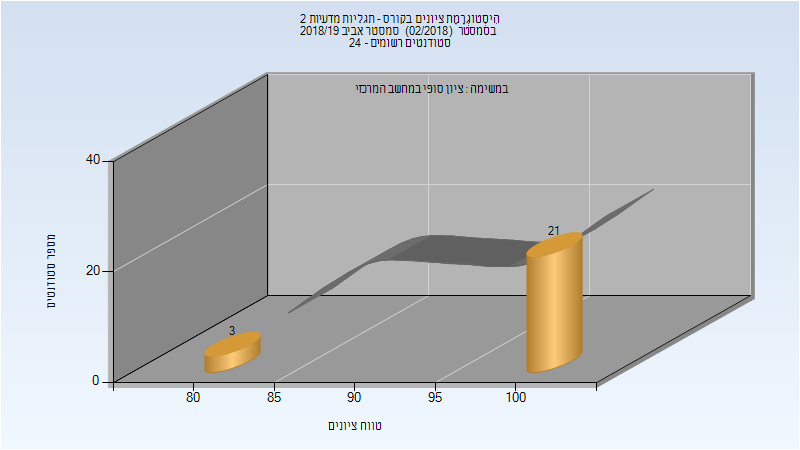
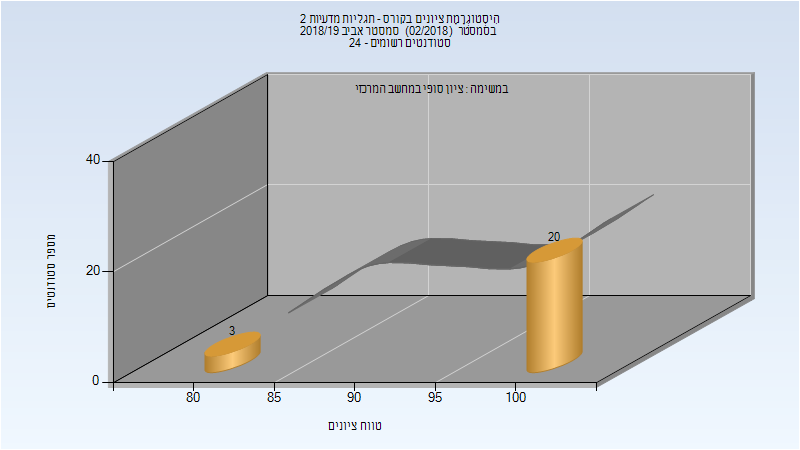
Deploy michael-maltsev/technion-histograms to github.com/michael-maltsev/technion-histograms.git:gh-pages

diff --git a/114011/index.html b/114011/index.html
@@ -186,12 +186,12 @@
 </thead>
 <tbody>
 <tr>
-<td>24</td>
-<td>24/0</td>
+<td>23</td>
+<td>23/0</td>
 <td>100</td>
 <td>80</td>
 <td>100</td>
-<td>97.5</td>
+<td>97.391</td>
 <td>100</td>
 </tr>
 </tbody>

diff --git a/114011/README.md b/114011/README.md
@@ -56,7 +56,7 @@
 
 | סטודנטים | עברו/נכשלו | אחוז עוברים | ציון מינימלי | ציון מקסימלי | ממוצע | חציון |
 | ---- | ---- | ---- | ---- | ---- | ---- | ---- |
-| 24 | 24/0 | 100 | 80 | 100 | 97.5 | 100 |
+| 23 | 23/0 | 100 | 80 | 100 | 97.391 | 100 |
 
 ## אביב 2020
 
